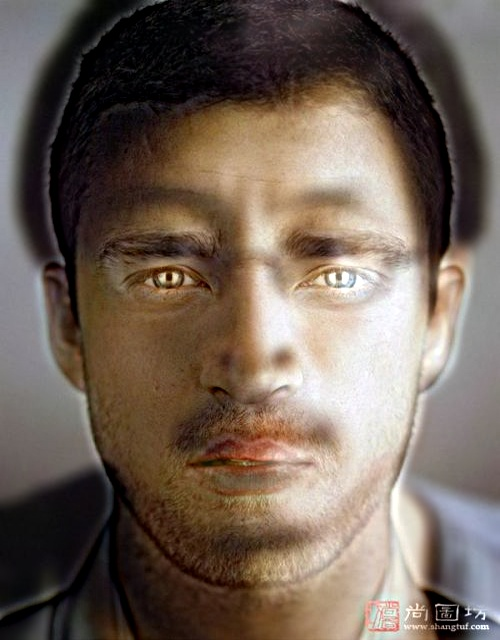
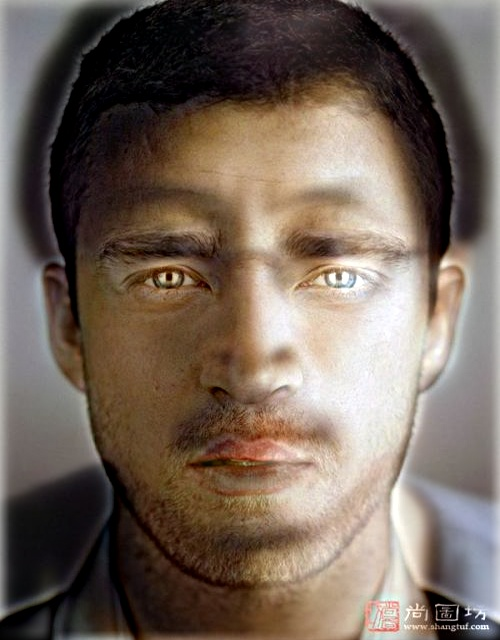
fix Gaussian method

diff --git a/MAIN.py b/MAIN.py
@@ -44,7 +44,7 @@ class MAIN():
 
     #自定义卷积函数
     def myConv(self,src,filter):
-        result = np.array(src,dtype = np.uint32)
+        result = np.array(src,dtype = np.uint)
         result = np.pad(result,((RADIUS,RADIUS),(RADIUS,RADIUS),(0,0)),'constant',constant_values=0)
         h,w,d = src.shape
         for i in range(d):
@@ -61,8 +61,8 @@ class MAIN():
         #opencv自带卷积操作
         trans = cv.filter2D(src,3,myFilter)
         #使用自定义卷积核
-        return trans
-        # return self.myConv(src,myFilter)
+        # return trans
+        return self.myConv(src,myFilter)
 
     #自定义傅里叶变换,src为待操作图像
     def myFFT(self,src):
@@ -78,10 +78,10 @@ class MAIN():
         return trans
 
 
-
+    #自定义逆傅里叶变换
     def myIFFT(self,src):
         # 务必用uint16否则出现噪点
-        return_val = np.zeros(src.shape,np.uint16)
+        return_val = np.zeros(src.shape,np.uint)
         #逐通道反傅里叶变换
         for i in range(3):
             f = np.fft.ifftshift(src[:,:,i])
@@ -98,6 +98,10 @@ class MAIN():
         result = trans2 + trans1
         # result = result.astype(np.uint16)
         cv.imwrite(OUTPUT_GAUSSIAN,result)
+
+
+
+        
         #FFT method
         trans1 = self.myFFT(self.img1)
         trans2 = self.myFFT(self.img2)
@@ -115,32 +119,16 @@ class MAIN():
                 r = ((i - center_h) ** 2 + (j - center_w) ** 2) ** 0.5
                 window[i][j] = self.get_cv(r,SIGMA_FFT)
 
-        
-
-
-
-
-        # print(trans1)
-
-
-
-
+        #magnitude为幅值域,phase为相位域，幅值域与滤镜相乘，相位不变。
         magnitude1 = cv.magnitude(trans1.real,trans1.imag)
         magnitude2 = cv.magnitude(trans2.real,trans2.imag)
-        # print(magnitude)
         phase1 = cv.phase(trans1.real,trans1.imag)
         phase2 = cv.phase(trans2.real, trans2.imag)
         for i in range(3):
             magnitude1[:,:,i] *= window
             magnitude2[:,:,i] -= magnitude2[:,:,i] * window
-        # for i in range(h):
-        #     for j in range(w):
-        #         for k in range(3):
-        #             magnitude1[i][j][k] *= window[i][j]
-        #             magnitude2[]
 
-        # for i in range(3):
-        #     magnitude[:,:,i] = np.multiply(magnitude[:,:,i],window)
+        #重新变为复数域
         result1_real,result1_imag = cv.polarToCart(magnitude1,phase1)
         result2_real,result2_imag = cv.polarToCart(magnitude2,phase2)
         # print(magnitude)
@@ -150,16 +138,6 @@ class MAIN():
         trans2.real = result2_real
         trans2.imag = result2_imag
         # print(trans1)
-
-        #滤波操作
-        # for i in range(int(center_h - SIGMA_FFT / 2 * h),int(center_h + SIGMA_FFT / 2 * h)):
-        #     for j in range(int(center_w - SIGMA_FFT / 2 * w),int(center_w + SIGMA_FFT / 2 * w)):
-        #         trans1[i][j] = [0,0,0]
-        #
-        # for i in range(len(trans2)):
-        #     for j in range(len(trans2[0])):
-        #         if trans1[i][j][:].all() != 0:
-        #             trans2[i][j] = [0,0,0]
 
         #反傅里叶变换
         img_back = self.myIFFT(trans1 + trans2)
